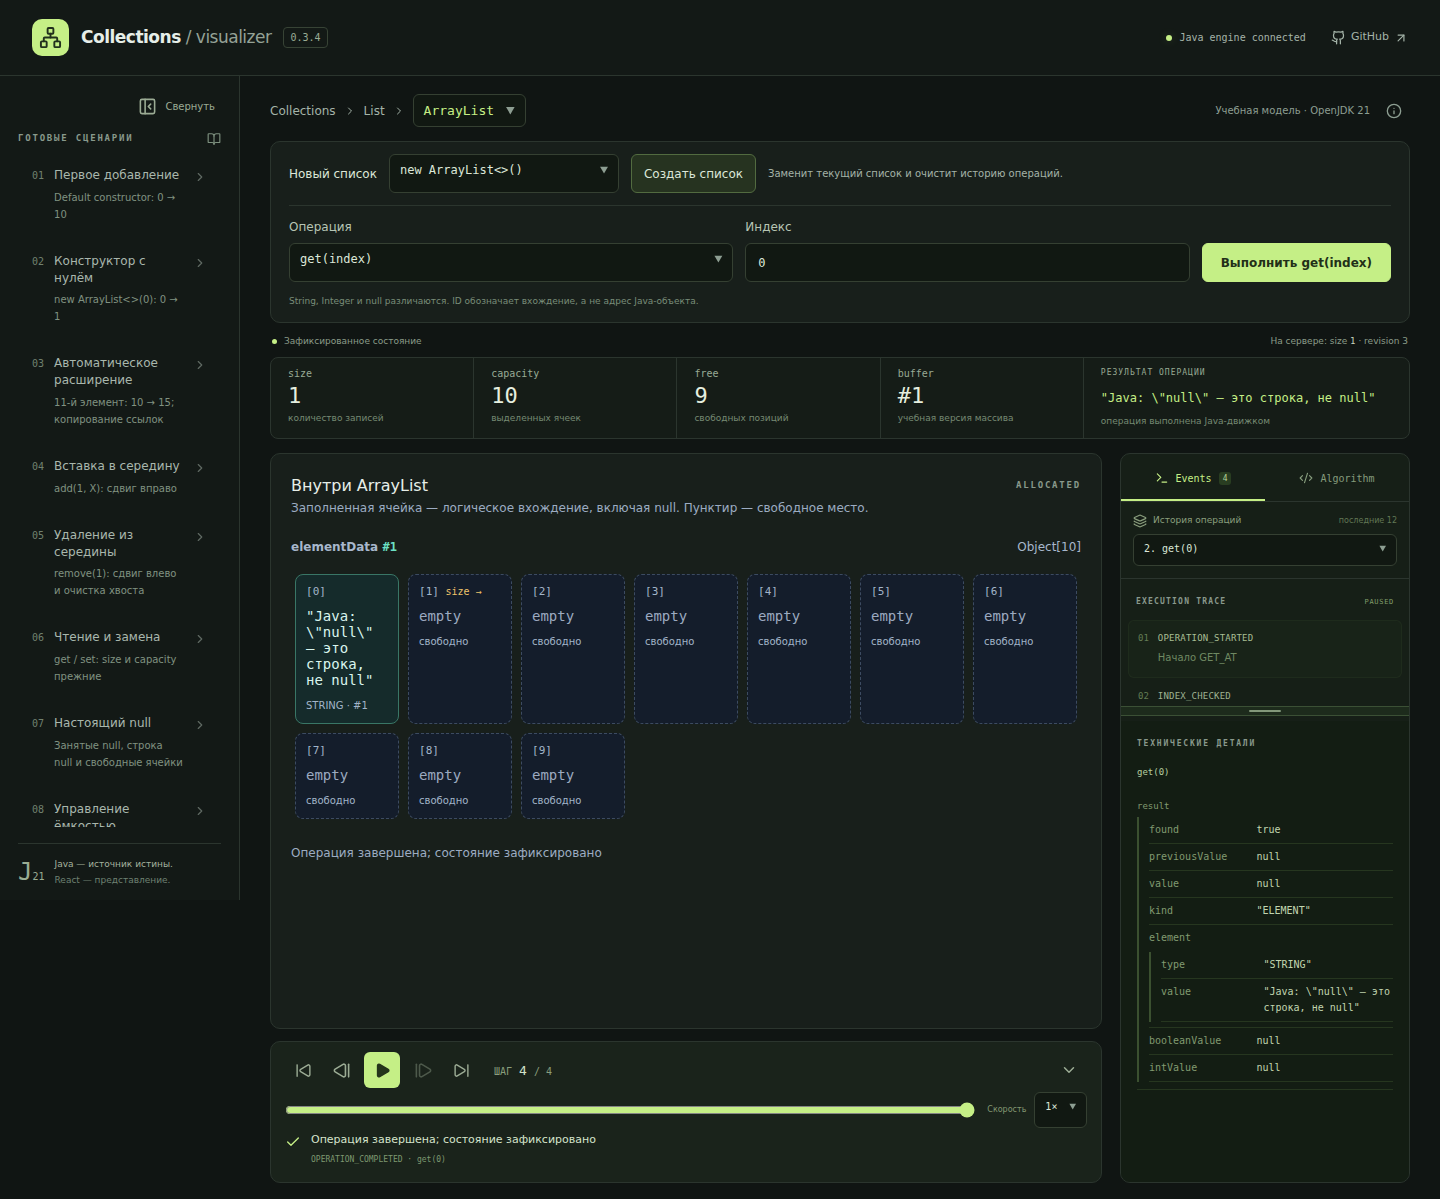
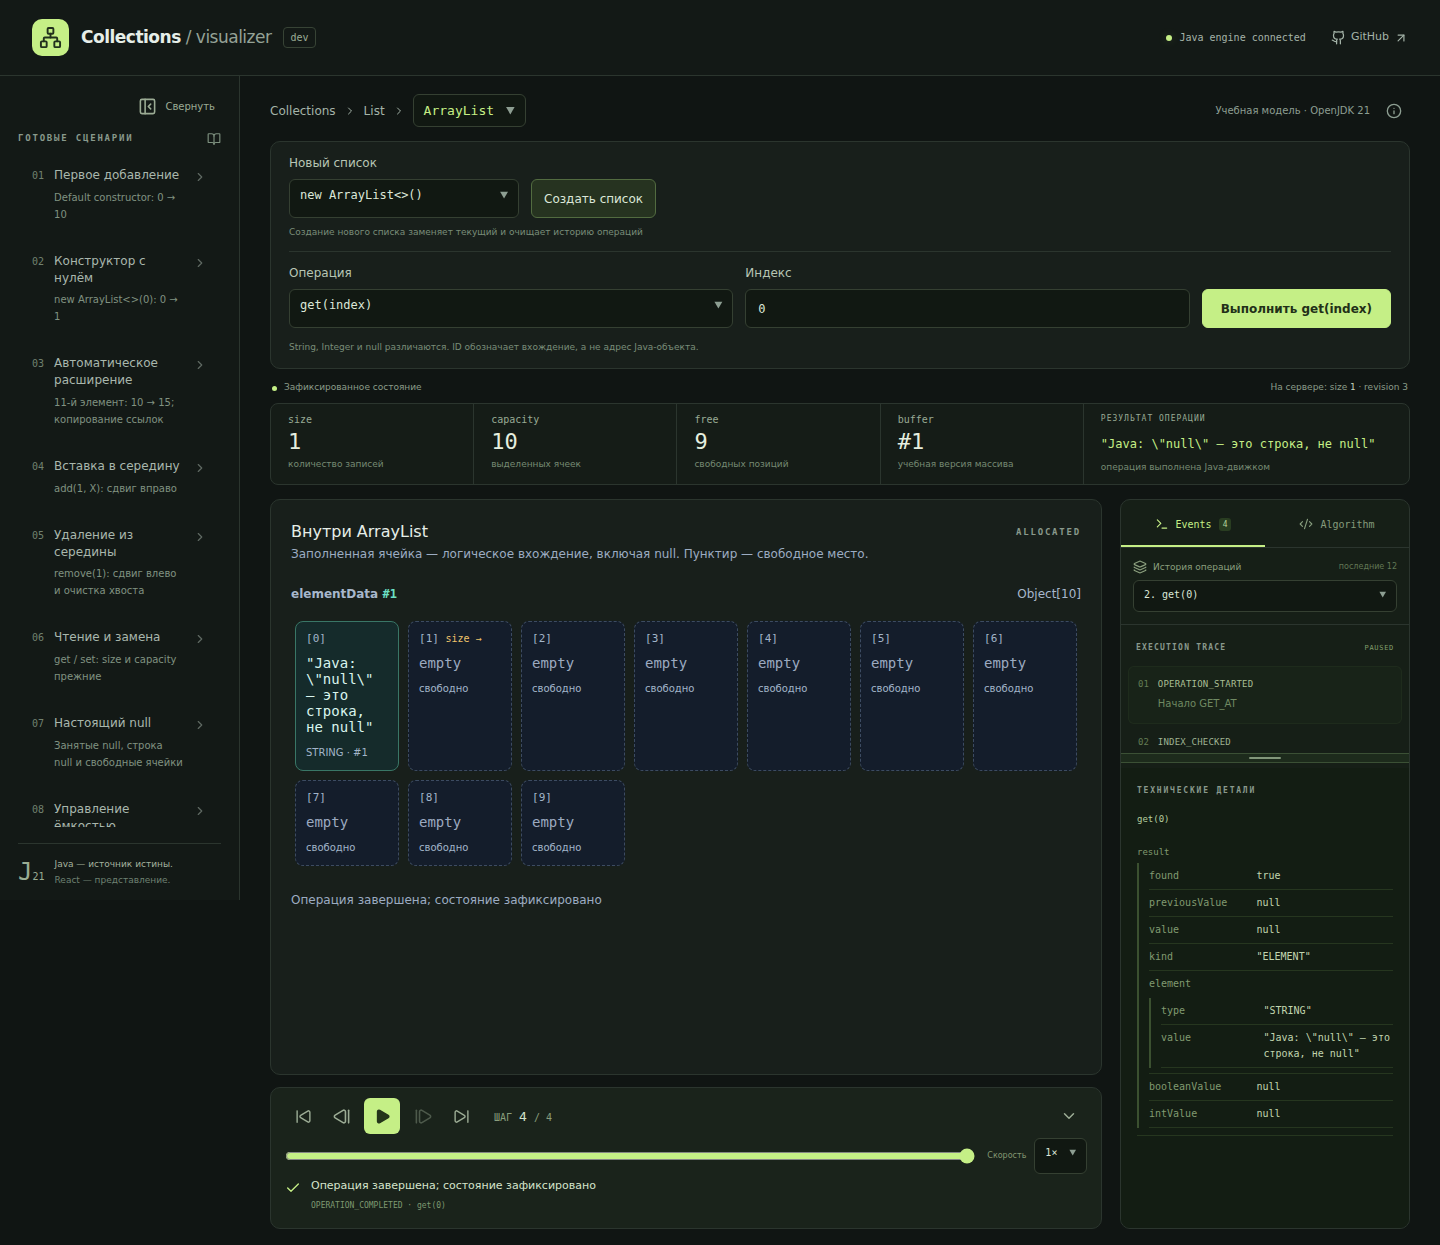
fix: align ArrayList constructor label and replacement caption

diff --git a/frontend/src/features/arraylist/ArrayCommandPanel.tsx b/frontend/src/features/arraylist/ArrayCommandPanel.tsx
@@ -74,21 +74,23 @@ export function ArrayCommandPanel({
         role="group"
         aria-label="Создание нового списка"
       >
-        <label htmlFor="array-constructor">Новый список</label>
-        <select
-          id="array-constructor"
-          aria-label="Конструктор ArrayList"
-          aria-describedby="constructor-replacement-hint"
-          value={constructor}
-          onChange={(e) => setConstructor(e.target.value)}
-        >
-          <option value="default">new ArrayList&lt;&gt;()</option>
-          {[0, 1, 5, 10, 16, 128, 256].map((n) => (
-            <option key={n} value={n}>
-              new ArrayList&lt;&gt;({n})
-            </option>
-          ))}
-        </select>
+        <label className="field" htmlFor="array-constructor">
+          <span>Новый список</span>
+          <select
+            id="array-constructor"
+            aria-label="Конструктор ArrayList"
+            aria-describedby="constructor-replacement-hint"
+            value={constructor}
+            onChange={(e) => setConstructor(e.target.value)}
+          >
+            <option value="default">new ArrayList&lt;&gt;()</option>
+            {[0, 1, 5, 10, 16, 128, 256].map((n) => (
+              <option key={n} value={n}>
+                new ArrayList&lt;&gt;({n})
+              </option>
+            ))}
+          </select>
+        </label>
         <button
           className="secondary-button"
           aria-describedby="constructor-replacement-hint"
@@ -102,7 +104,7 @@ export function ArrayCommandPanel({
           Создать список
         </button>
         <p id="constructor-replacement-hint">
-          Заменит текущий список и очистит историю операций.
+          Создание нового списка заменяет текущий и очищает историю операций
         </p>
       </div>
       <form className="command-form array-command-form" onSubmit={submit}>

diff --git a/frontend/e2e/workbench-polish.spec.ts b/frontend/e2e/workbench-polish.spec.ts
@@ -141,20 +141,32 @@ test("ArrayList constructor is a separate keyboard-accessible replacement workfl
     name: "Конструктор ArrayList",
   });
   await expect(constructor).toBeVisible();
-  expect((await constructor.boundingBox())!.width).toBeLessThanOrEqual(240);
+  const constructorBox = (await constructor.boundingBox())!;
+  const labelBox = (await page
+    .locator('label[for="array-constructor"] > span')
+    .boundingBox())!;
+  const create = page.getByRole("button", {
+    name: "Создать список",
+    exact: true,
+  });
+  const createBox = (await create.boundingBox())!;
+  const hint = page.locator("#constructor-replacement-hint");
+  expect(constructorBox.width).toBeLessThanOrEqual(240);
+  expect(labelBox.y + labelBox.height).toBeLessThan(constructorBox.y);
+  expect((await hint.boundingBox())!.y).toBeGreaterThanOrEqual(
+    Math.max(
+      constructorBox.y + constructorBox.height,
+      createBox.y + createBox.height,
+    ),
+  );
   if (!isMobile) {
-    const create = page.getByRole("button", {
-      name: "Создать список",
-      exact: true,
-    });
-    expect(
-      Math.abs(
-        (await constructor.boundingBox())!.y - (await create.boundingBox())!.y,
-      ),
-    ).toBeLessThan(1);
+    expect(Math.abs(constructorBox.y - createBox.y)).toBeLessThan(1);
+    expect(createBox.x).toBeGreaterThan(
+      constructorBox.x + constructorBox.width,
+    );
   }
   await expect(constructor).toHaveAccessibleDescription(
-    /Заменит текущий список/,
+    "Создание нового списка заменяет текущий и очищает историю операций",
   );
   await expect(
     page.locator(".array-command-form").getByRole("button"),

diff --git a/frontend/src/style.css b/frontend/src/style.css
@@ -2019,16 +2019,15 @@ main {
 }
 .array-constructor {
   display: flex;
-  align-items: center;
+  align-items: flex-end;
   flex-wrap: wrap;
-  gap: 8px 12px;
+  gap: 7px 12px;
   border-bottom: 1px solid var(--line);
   margin-bottom: 12px;
   padding: 12px 0;
 }
-.array-constructor label {
-  font-size: 12px;
-  color: #dce7d8;
+.array-constructor .field {
+  flex: 0 1 230px;
 }
 .array-constructor select {
   width: 230px;
@@ -2036,10 +2035,10 @@ main {
   min-height: 39px;
 }
 .array-constructor p {
-  flex: 1 1 220px;
-  font-size: 10px;
+  flex: 1 0 100%;
+  font-size: 9px;
   line-height: 1.6;
-  color: #a4b3a8;
+  color: #798d79;
   margin: 0;
 }
 .secondary-button {

diff --git a/docs/verification/workbench-polish/README.md b/docs/verification/workbench-polish/README.md
@@ -22,8 +22,9 @@ footer. Mobile retains the horizontal scenario strip and ordinary page scrolling
 | 412 px, nested result and quoted string | [Mobile technical details](mobile-details.png) |
 
 The ArrayList constructor is always visible in a compact row above ordinary
-operations: New list → 230 px dropdown → Create list. Controls wrap on phones.
-A short warning explains that creation replaces the current list and clears
+operations: a standard New list label sits above the 230 px dropdown, with
+Create list to its right. Controls wrap on phones. The muted caption below the
+constructor row explains that creation replaces the current list and clears
 history. Scenario reset guidance is available in button tooltips and accessible
 descriptions; collection replacement guidance is in a compact help disclosure
 and the selector's accessible description. The help closes on mouse leave, an
@@ -55,6 +56,13 @@ or collection algorithms were added.
   replies and constructor changes. The existing lifecycle config/test was used
   with server management disabled and isolated local ports 18080/4183; only that
   test process allowed its specific local origin.
+
+After the final constructor label/caption placement adjustment, the unit suite
+(89 passed), production build, Prettier/diff checks and affected ArrayList,
+workbench, workspace and playback suites were rerun (39 passed, 1 intentional
+mobile sidebar skip). The full production suite and strict lifecycle results
+above predate that placement-only follow-up. Updated ArrayList screenshots show
+the final label and muted caption positions at desktop and 320 px.
 
 The new Playwright coverage checks pointer/touch and keyboard selection,
 Escape cancellation, focus after closing, accessible names/descriptions,
